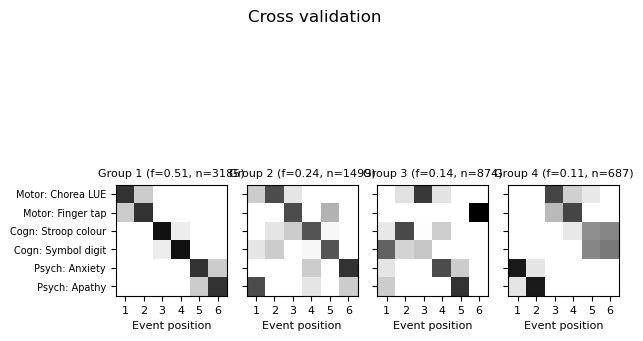
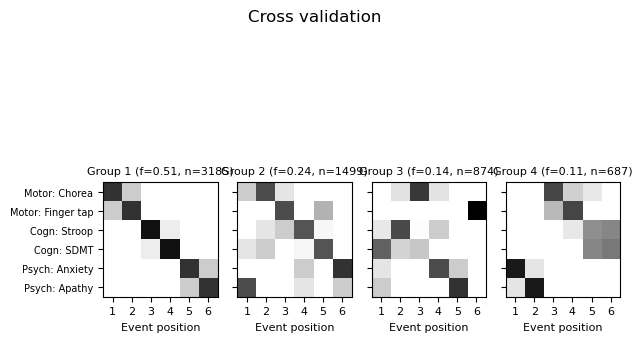
changed labels for variables in line with paper

diff --git a/SuStaIn-master/runner_main.py b/SuStaIn-master/runner_main.py
@@ -527,8 +527,14 @@ def main(data, sustainType):
     Z_vals = np.array( [ [1, 2, 3]] * N)  # Z-scores for each biomarker
     Z_max = np.array( [5] * N)  # maximum z-score
 
-    SuStaInLabels = ["Motor: Finger tap", "Motor: Chorea LUE", "Cogn: Stroop colour", "Cogn: Symbol digit", "Psych: Apathy",
+    SuStaInLabels = ["Motor: Finger tap", "Motor: Chorea", "Cogn: Stroop", "Cogn: SDMT", "Psych: Apathy",
                  "Psych: Anxiety"]  # *** Lucy hardcoded for diagram
+
+    # SuStaInLabels =  [] # Used to label plots with feature names later
+    # SuStaInStageLabels =  [] # What is this used for?
+
+    # for i in features_list: # Adding the biomarker names
+    #     SuStaInLabels.append(i)
 
 # ---- SMOOTHING THE DATA / GETTING KDE FITS -----
 # ---- + loading sustain = MixtureSustain()----
@@ -541,15 +547,6 @@ def main(data, sustainType):
         data = data_case_control # just renaming for rest of algo
 
         N = data.shape [1]
-
-        # *** hard coding
-        SuStaInLabels = ["Motor: Finger tap", "Motor: Chorea LUE", "Cogn: Stroop colour", "Cogn: Symbol digit", "Psych: Apathy", "Psych: Anxiety"] # *** Lucy hardcoded for diagram
-
-        # SuStaInLabels =  [] # Used to label plots with feature names later
-        # SuStaInStageLabels =  [] # What is this used for?
-
-        # for i in features_list: # Adding the biomarker names
-        #     SuStaInLabels.append(i)
 
         print("SuStaInLabels", SuStaInLabels)
 
@@ -592,7 +589,6 @@ def main(data, sustainType):
 
         # Creating MixtureSustain() object
 
-        SuStaInLabels = ["Motor: Finger tap", "Motor: Chorea LUE", "Cogn: Stroop colour", "Cogn: Symbol digit", "Psych: Apathy", "Psych: Anxiety"] # *** Lucy hardcoded for diagram
         sustain = MixtureSustain(L_yes, L_no, SuStaInLabels, N_startpoints, N_S_max, N_iterations_MCMC, output_folder,
                                  dataset_name, use_parallel_startpoints=True)
         # # Plotting pdf...Lucy
@@ -725,7 +721,7 @@ for i in range(0,N_S_max): # For each subtype
 # > See step 10 - just increase N_sub at beginning
 
 for i in range(1,N_S_max+1):
-    plt.scatter([i,i,i,i,i,i,i,i,i,i], log_likelihoods[i-1], y_label="Log likelihood", x_label="Number of subtypes in model")
+    plt.scatter([i,i,i,i,i,i,i,i,i,i], log_likelihoods[i-1]) # y_label="Log likelihood", x_label="Number of subtypes in model"
 
 ### (17) Find subtype and stage of an individual NEW DATA
 # > At Visit 1 (Baseline) and Visit 2. Do they stay in same subtype / move up a stage?
